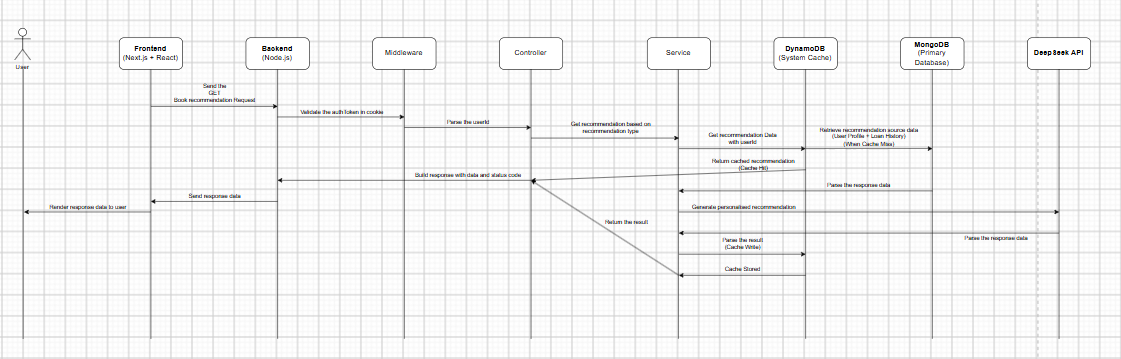
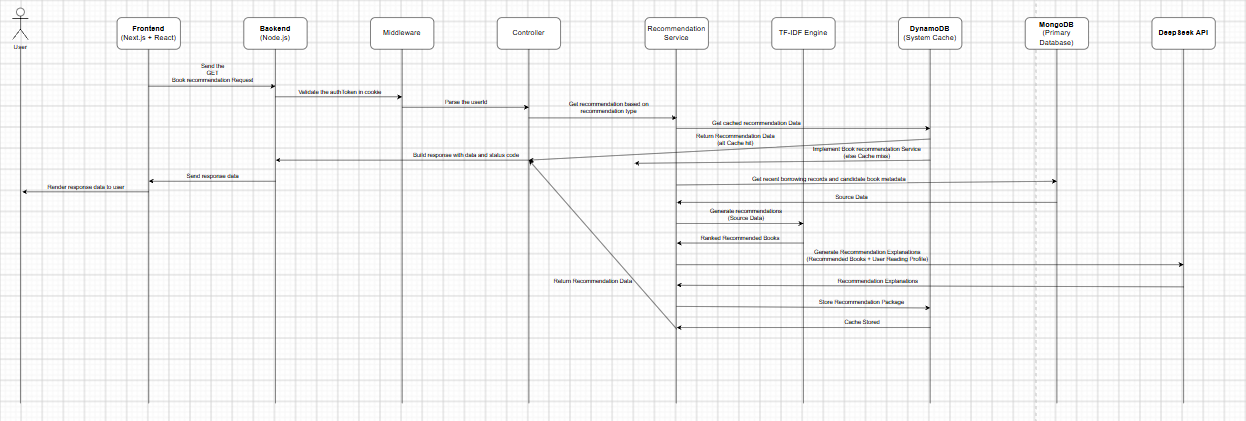
readme: fix the description logic on core business workflow/technical document

diff --git a/frontend/src/features/profile/components/modals/DisplayQRCodeModal.tsx b/frontend/src/features/profile/components/modals/DisplayQRCodeModal.tsx
@@ -4,6 +4,7 @@ import QRCode from "react-qr-code";
 import ModalTemplate from "../../../../component/Templates/ModalTemplate";
 import { ModalBodySyntax } from "../../../../Data/Style";
 import { GetCurrentUserController } from "../../../../Controller/UserController/UserGetController";
+import { useEffect, useState } from "react";
 
 export interface QRCodeInterface
 {
@@ -23,22 +24,62 @@ export interface QRCodePayload
     type: "library-member";
 }
 
-const getQRCodeData = async () => 
-{
-    const response = await GetCurrentUserController("QRCode");
-    const result = await response?.json() as QRCodeInterface;
-    
-    return result.data;
-}
-
 const DisplayQRCodeModal = () => 
 {
+    const [qrCodePayload, setQrCodePayload] = useState<QRCodePayload | null>(null);
+    const [error, setError] = useState<string | null>(null);
+    const [loading, setLoading] = useState(true);
+
+    useEffect(() => 
+    {
+        let cancelled = false;
+
+        const loadQRCode = async () => 
+        {
+            try 
+            {
+                const response = await GetCurrentUserController("QRCode");
+
+                if (!response?.ok) 
+                {
+                    throw new Error("QR code request failed");
+                }
+
+                const result = await response.json() as QRCodeInterface;
+
+                if (!result.success || !result.data?.userId) 
+                {
+                    throw new Error("QR code data is unavailable");
+                }
+
+                if (!cancelled) setQrCodePayload(result.data);
+            }
+            catch (err) 
+            {
+                console.error("Failed to load member QR code:", err);
+                if (!cancelled) setError("Member QR code is unavailable");
+            } 
+            finally 
+            {
+                if (!cancelled) setLoading(false);
+            }
+        };
+
+        void loadQRCode();
+        return () => { cancelled = true; };
+    }, []);
 
     return(
         <ModalTemplate title={"Display QR Code"} width="400px" cancelButtonName={"Exit"}>
             <Box id="modal-description" sx={{...ModalBodySyntax, justifyContent: 'center', alignContent: 'center', textAlign: 'center'}}>
                 <Typography sx={{fontSize: '24px', fontweight: 'bold', paddingBottom: '25px'}}>Scan To Loan Book</Typography>
-                <QRCode value={JSON.stringify(getQRCodeData())}/>
+                {loading ? 
+                    (<Typography>Loading QR code...</Typography>) 
+                    : 
+                    qrCodePayload ? 
+                    (<QRCode value={JSON.stringify(qrCodePayload)} />) 
+                    : 
+                    (<Typography role="alert">{error ?? "Member QR code is unavailable"}</Typography>)}
             </Box>
         </ModalTemplate>
     );

diff --git a/backend/src/service/recommendation/recommendationEngine.ts b/backend/src/service/recommendation/recommendationEngine.ts
@@ -1,7 +1,7 @@
 import { GetBook, AllBooksAggregationResult } from "../../schema/book/book";
 import { GetBookLoaned, BookLoanedAggregationResult } from "../../schema/book/bookLoaned";
 import { Types } from "mongoose";
-import { calculateTFIDF } from "./TF-IDF_Logic";
+import { BookCorpusEntry, calculateTFIDF } from "./TF-IDF_Logic";
 import OpenAI from "openai";
 
 interface AllBooksCorpus
@@ -76,13 +76,17 @@ const buildUserProfile = (bookLoanedRecord: BookLoanedAggregationResult[]) =>
     return {loanedBooksCorpus, genreFrequencyMap};
 }
 
-const buildCandidateCorpus = async () => 
+const buildCandidateCorpus = async (): Promise<BookCorpusEntry[]> => 
 {
     const allBooks = await GetBook();
-    return allBooks.map(mapBookToMetadata).map(book => ({ id: book.id, metadata: buildBookCorpus(book)}));
-}
 
-const generateRecommendationCandidates = (loanedBooksCorpus: BookMetadata[], genreFrequencyMap: Map<string, number>, allBooksCorpus: AllBooksCorpus[]) => 
+    return allBooks.map(mapBookToMetadata).map(book => 
+    (
+        { id: book.id, metadata: buildBookCorpus(book), genre: book.genre}
+    ));
+};
+
+const generateRecommendationCandidates = (loanedBooksCorpus: BookMetadata[], genreFrequencyMap: Map<string, number>, allBooksCorpus: BookCorpusEntry[]) => 
 {
     const TF_IDF_Scores = calculateTFIDF(loanedBooksCorpus.map(buildBookCorpus), allBooksCorpus, genreFrequencyMap, loanedBooksCorpus.length);
     const scoresWithJitter = [...TF_IDF_Scores].sort((a, b)=>

diff --git a/backend/src/service/recommendation/TF-IDF_Logic.ts b/backend/src/service/recommendation/TF-IDF_Logic.ts
@@ -1,5 +1,13 @@
 type ScoreType = { id: string; score: number }[];
-type BookCorpusType = { id: string; metadata: string }[];
+
+export interface BookCorpusEntry 
+{
+    id: string;
+    metadata: string;
+    genre: string;
+}
+
+type BookCorpusType = BookCorpusEntry[];
 
 // Calculate TF (Term Frequency)
 const termFrequency = (term: string, doc: string[]): number =>
@@ -47,8 +55,7 @@ export const calculateTFIDF = (loanCorpus: string[], allBooksCorpus: BookCorpusT
         const docVector = vocab.map(term => termFrequency(term, doc) * inverseDocumentFrequency(term, docs));
         const tfidfScore = cosineSimilarity(userVector, docVector);
 
-        const currentBookGenre = doc[1];
-        const genreCount = genreFrequencyMap.get(currentBookGenre) || 0;
+        const genreCount = genreFrequencyMap.get(book.genre) || 0;
         
         const genreWeight = genreCount / totalUserLoans;
 

diff --git a/doc/Documentation/businessLogic/recommendation-service.md b/doc/Documentation/businessLogic/recommendation-service.md
@@ -19,8 +19,8 @@
         - Highlights newly available content
         - Automatically refreshes cache when publication data changes
 
-- **Source Code Reference**
-    - [bookRecommendationService.ts](../../../backend/src/service/recommendation/bookRecommendationService.ts)
+### Source Code Reference
+- [bookRecommendationService.ts](../../../backend/src/service/recommendation/bookRecommendationService.ts)
 
 <hr>
 
@@ -29,29 +29,28 @@
 
 #### Recommendation Pipeline
 - **Metadata Collection**
-    - Collect user borrowing records from LoanBook
-    - Collect book metadata from AllBook
+    - Retrieve the user's 10 most recent borrowing records
+    - Collect candidate book metadata from the catalogue
 
 - **Corpus Construction**
-    - Build a user interest corpus using metadata from previously borrowed books
-    - Construct candidate book corpora using genre, category, author and keyword information
-    - Exclude books already borrowed by the user
+    - Build the user interest corpus from the recent borrowing records
+    - Build candidate book corpora using book title, genre, author, and publisher
 
 - **Candidate Scoring**
-    - Calculate content relevance using a TF-IDF based recommendation engine
-    - Apply genre preference weighting based on historical borrowing behaviour
-    - Rank books according to their final recommendation scores
+    - Score and rank candidate books using TF-IDF similarity and genre weighting
+    - Select the top 20 candidates, then exclude books in the user's 10 most recent borrowing records
+    - Return up to 8 remaining books
 
 - **Recommendation Generation**
     - Select the highest-ranked books as recommendation candidates
     - Cache the generated results to reduce repeated computations
 
 - **AI Explanation**
-    - Use DeepSeek to generate natural-language recommendation messages
-    - Provide contextual explanations for recommended books
+    - Submit the user's derived genre-preference profile and recommended-book metadata to DeepSeek
+    - Generate contextual explanations describing why each recommended book aligns with the user's reading interests
 
-- **Source Code Reference**
-    - [recommendationEngine.ts](../../../backend/src/service/recommendation/recommendationEngine.ts)
+### Source Code Reference
+- [recommendationEngine.ts](../../../backend/src/service/recommendation/recommendationEngine.ts)
 
 
 
@@ -75,5 +74,10 @@
 - **Final Score**
     - Final Score = 0.7 × TF-IDF Similarity + 0.3 × Genre Preference Weight
 
-- **Source Code Reference**
-    - [IDF_Logic.ts](../../../backend/src/service/recommendation/TF-IDF_Logic.ts)
+### Remarks
+- The recommendation engine is responsible exclusively for recommendation scoring and ranking
+- Natural-language recommendation explanations are generated by a separate AI explanation layer after ranking has been completed
+- Recommendation explanations do not influence recommendation scores or ranking results
+
+### Source Code Reference
+- [IDF_Logic.ts](../../../backend/src/service/recommendation/TF-IDF_Logic.ts)

diff --git a/doc/Documentation/technical/system-design.md b/doc/Documentation/technical/system-design.md
@@ -18,31 +18,27 @@ Figure 2 - Google Books Integration Sequence Diagram
 
 
 
-### Recommendation Workflow 
+### Personlised Book Recommendation Workflow 
 <img src="../../Image/Diagrams/SequenceDiagramForBookRecommendation.png" style="width:90%;"/><br>
 Figure 3 - Book Recommendation Sequence Diagram
 
 - This sequence diagram illustrates the personalised book recommendation workflow
 - When a user requests book recommendations, the frontend sends an authenticated request to the backend
-- After the authentication token is validated, the recommendation service first attempts to retrieve recommendation data from DynamoDB
+- After the authentication token is validated, the recommendation service first attempts to retrieve cached recommendation results from DynamoDB
 
 - **If a cache hit occurs**
-    - The cached recommendation result is returned immediately, reducing response latency and avoiding unnecessary processing
+    - The cached recommendation package is returned immediately
+    - This avoids unnecessary recommendation computation and AI inference, improving response performance and reducing operational cost
 
 - **If a cache miss occurs**
-    - The service retrieves recommendation source data from MongoDB, including the user's profile and loan history
-    - The retrieved data is submitted to the DeepSeek API to generate personalised book recommendations
-    - The generated recommendation result is stored in DynamoDB before being returned to the frontend
+    - The service retrieves the user's 10 most recent borrowing records and candidate book metadata from MongoDB.
+    - The service derives a genre-frequency profile from the borrowed books.
+    - A custom TF-IDF recommendation engine ranks candidate books using content similarity and genre-weighted scoring
+    - DeepSeek generates a personalised natural-language explanation for each recommended book
+      (If DeepSeek is unavailable, a generic default explanation is used instead)<br>
+    - DeepSeek generates a natural-language explanation for each recommended book
+    - The recommendation package, including the recommended books and their explanations, is stored in DynamoDB before being returned to the frontend
 
-- This workflow implements the Cache-Aside Pattern:
-    - MongoDB acts as the system of record
-    - DynamoDB serves as the application-level cache
-    - DeepSeek provides recommendation generation capabilities
-
-- **Remarks**
-    - Cache invalidation follows an event-driven strategy rather than a TTL-based expiration model
-    - Recommendation caches are regenerated only when relevant business events occur
-    - This approach reduces unnecessary recomputation while maintaining data consistency and improving response performance
 
 
 

diff --git a/README.md b/README.md
@@ -13,9 +13,9 @@ This Information Technology Project (ITP) is a library management system enginee
 ## Architecture Highlights
 - Layered architecture across frontend and backend to enforce separation of concerns
 - Decoupled service boundaries for improved maintainability and scalability
-- Cloud-native deployment using AWS Lambda, EC2, Docker and GitHub Actions
+- Cloud-native deployment using AWS Lambda, Docker and GitHub Actions
 - Real-time state synchronisation using WebSocket-driven update workflows
-- Security-first design with HttpOnly authentication and approval-based business workflows
+- HttpOnly-cookie authentication and approval-based workflows
 - Automated domain operations through scheduled background processing
 
 
@@ -138,10 +138,11 @@ docker-compose -f compose.yaml up --build -d
 ## Core Features
 - **Book Discovery & Recommendation**
     - Provides personalised book recommendations using a TF-IDF–based recommendation engine
-    - Generates natural-language recommendation explanations through DeepSeek integration
+    - Can generate natural-language recommendation explanations with DeepSeek when available
 
 - **External Metadata Integration**
-    - Integrates Google Books metadata to enrich catalogue information and improve content discovery
+    - Displays supplementary Google Books metadata in book details<br>
+      (Such as ratings, categories, pricing, and ISBNs, in the book details view)
 
 - **Loan & Return Management**
     - Tracks borrowing activities, due dates, and return status throughout the loan lifecycle
@@ -161,10 +162,10 @@ Documentation covering the key business processes and service behaviours within 
     - Background task execution using setTimeout, setInterval and Promise.allSettled
     
 - [Recommendation Service](./doc/Documentation/businessLogic/recommendation-service.md)
-    - Featured and personalised book recommendations with content-based filtering
+    - Featured recommendations, plus personalised content-based recommendations using TF-IDF and the user's recent borrowing history
 
 - [External Metadata Integration](./doc/Documentation/businessLogic/external-metadata.md)
-    - Google Books API integration for metadata enrichment and catalogue enhancement
+    - Retrieves and displays supplementary Google Books information
 
 - [QR Code Handling](./doc/Documentation/businessLogic/qr-code-handling.md)
     - QR-based member identification workflow for borrowing operations

diff --git a/doc/Documentation/product/limitations.md b/doc/Documentation/product/limitations.md
@@ -9,10 +9,6 @@
 - The current data model prioritises rapid prototyping over query efficiency, resulting in additional cross-collection lookups for some workflows
 - Certain query implementations rely on aggregation pipelines where simpler alternatives could improve maintainability
 
-### Security
-- Authentication currently uses client-accessible token storage for demonstration simplicity
-- Production deployments should migrate to HttpOnly cookie-based authentication
-
 ### Testing
 - Integration and end-to-end test coverage remains limited due to project scope
 

diff --git a/doc/Documentation/businessLogic/qr-code-handling.md b/doc/Documentation/businessLogic/qr-code-handling.md
@@ -16,7 +16,8 @@
 
 ### Loan Process
 - Members present their QR code during the borrowing process
-- Librarians input the QR data into the loan form
+- Librarians manually enter the QR payload into the loan form
+  (No in-app camera scanning is provided)<br>
 - The system validates the QR payload and extracts the member identifier for loan processing
 
 ### Design Considerations
